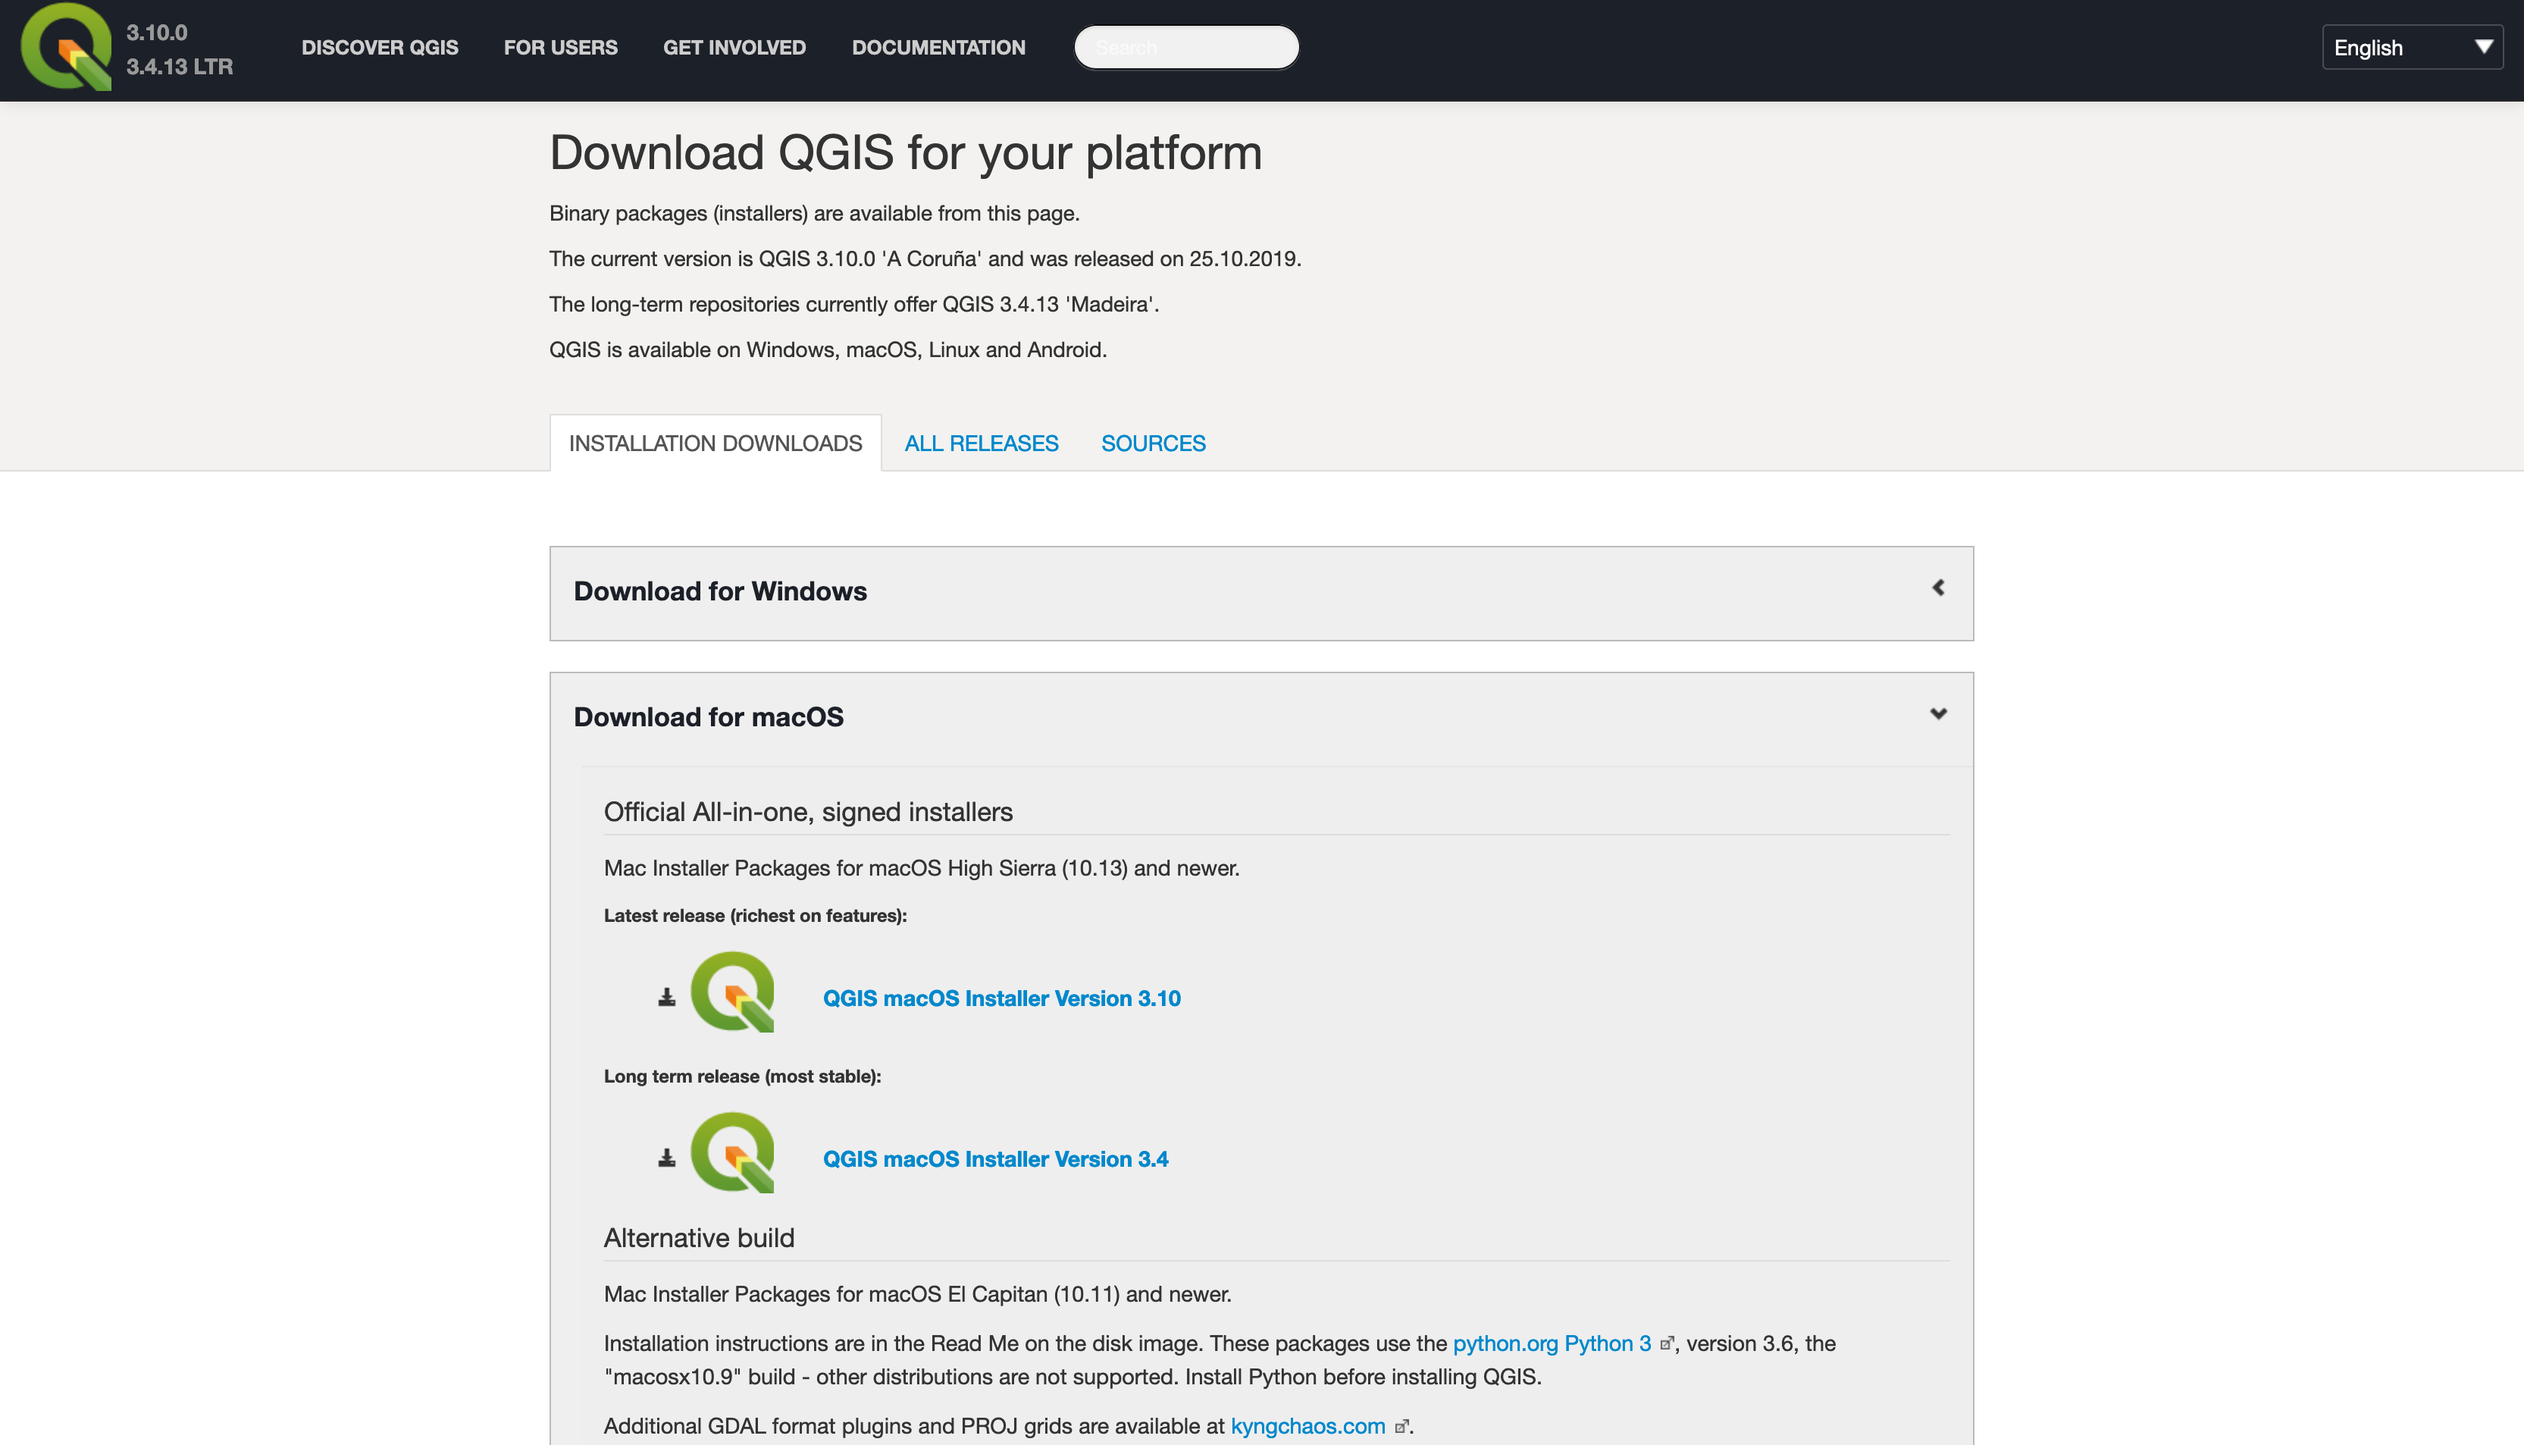
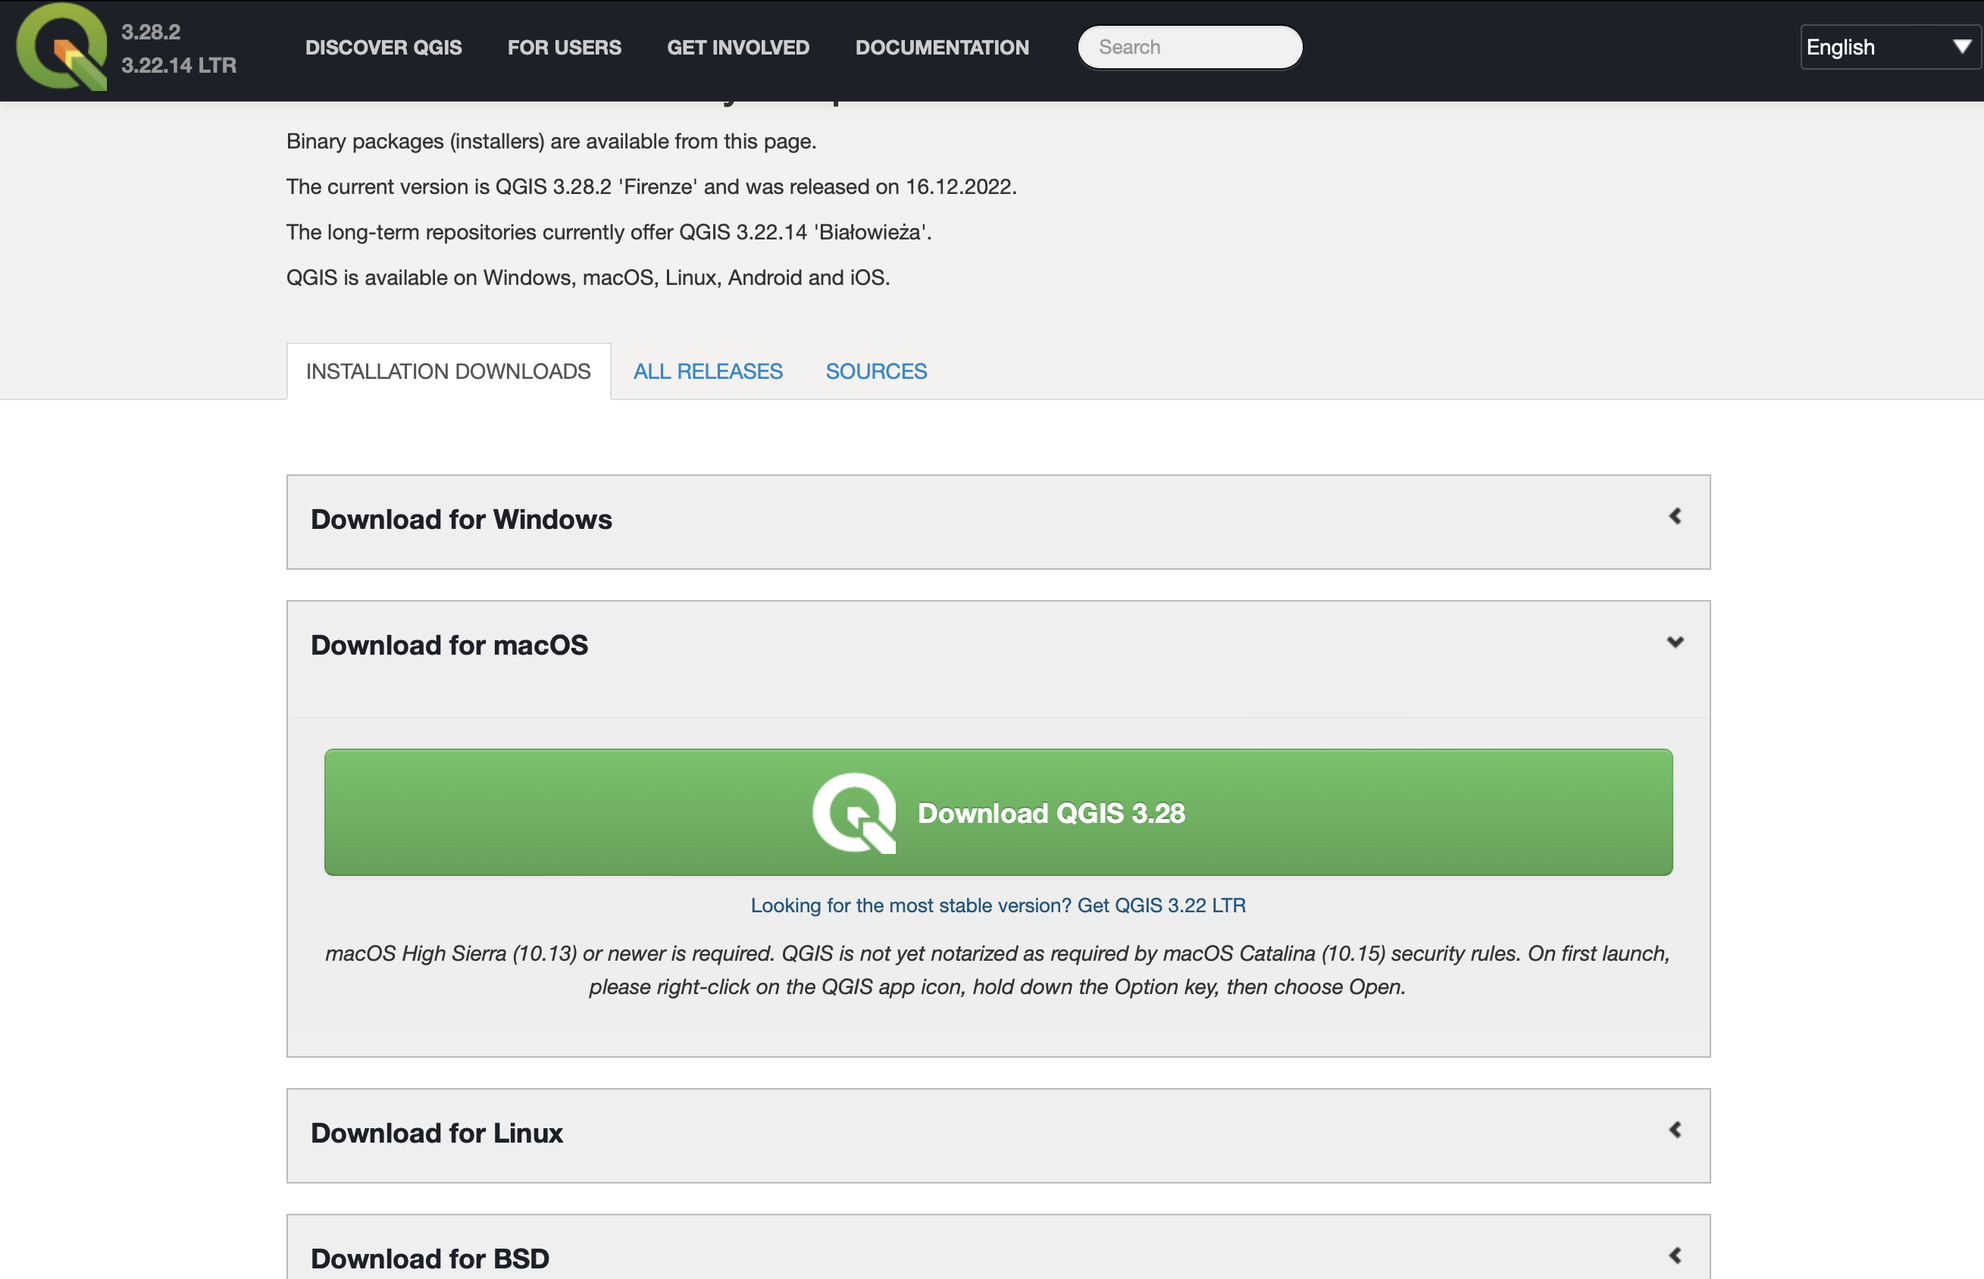
updated installation instructions

diff --git a/_posts/2019-10-31-00_QGIS_3x_Installation_Instructions.md b/_posts/2019-10-31-00_QGIS_3x_Installation_Instructions.md
@@ -33,17 +33,17 @@ This tutorial will walk you through the installation of the following pieces of 
 
 # Installing QGIS (3.x) on a Mac
 
-* Go to [Download QGIS for your platform](https://qgis.org/en/site/forusers/download.html) and choose the right version for your operating system.  
+* Go to [Download QGIS for your platform](https://qgis.org/en/site/forusers/download.html) and choose the right version for your operating system. We highly recommend installing the long-term release (LTR) version of the software, which is available as a link under the main green download button on the QGIS site.    
 
     ![QGIS 1](/assets/tutorial_images/00_Installation/QGIS_01.png)
 
 * Locate and open the `qgis-macos-pr.dmg` file to install QGIS and all its components.
 
-* Drag the `QGIS3.10.app` to your `Applications` folder.
+* Drag the `QGIS3.xx.app` to your `Applications` folder.
 
 * Previously, installing QGIS meant you also had to install multiple other programs, including Python. However, with this latest update, all the necessary components have been included in the main package and there is nothing else to do.
 
-* *Note*: if you get a message that says QGIS can't be opened because Apple cannot check it for malicious software, click on `Show in Finder` and then right-click on the QGIS3.10.app icon and click `Open` in the subsequent menu.
+* *Note*: macOS High Sierra (10.13) or newer is required for QGIS. QGIS is not yet notarized as required by macOS Catalina (10.15) security rules. On first launch, please right-click on the QGIS app icon, hold down the Option key, then choose Open. This should resolve all errors associated with launching the application.
 
 # Installing Adobe Illustrator on a Mac
 
@@ -76,7 +76,7 @@ This tutorial will walk you through the installation of the following pieces of 
 
 * Go to [Download QGIS for your platform](https://qgis.org/en/site/forusers/download.html) and choose the right version for your operating system.  
     
-* Download QGIS Standalone Installer Version 3.4 (64 bit)
+* Download QGIS Standalone Installer Version 3.xx (64 bit)
     
     ![QGIS Windows 1](/assets/tutorial_images/00_Installation/QGIS_Windows_01.png)
 
